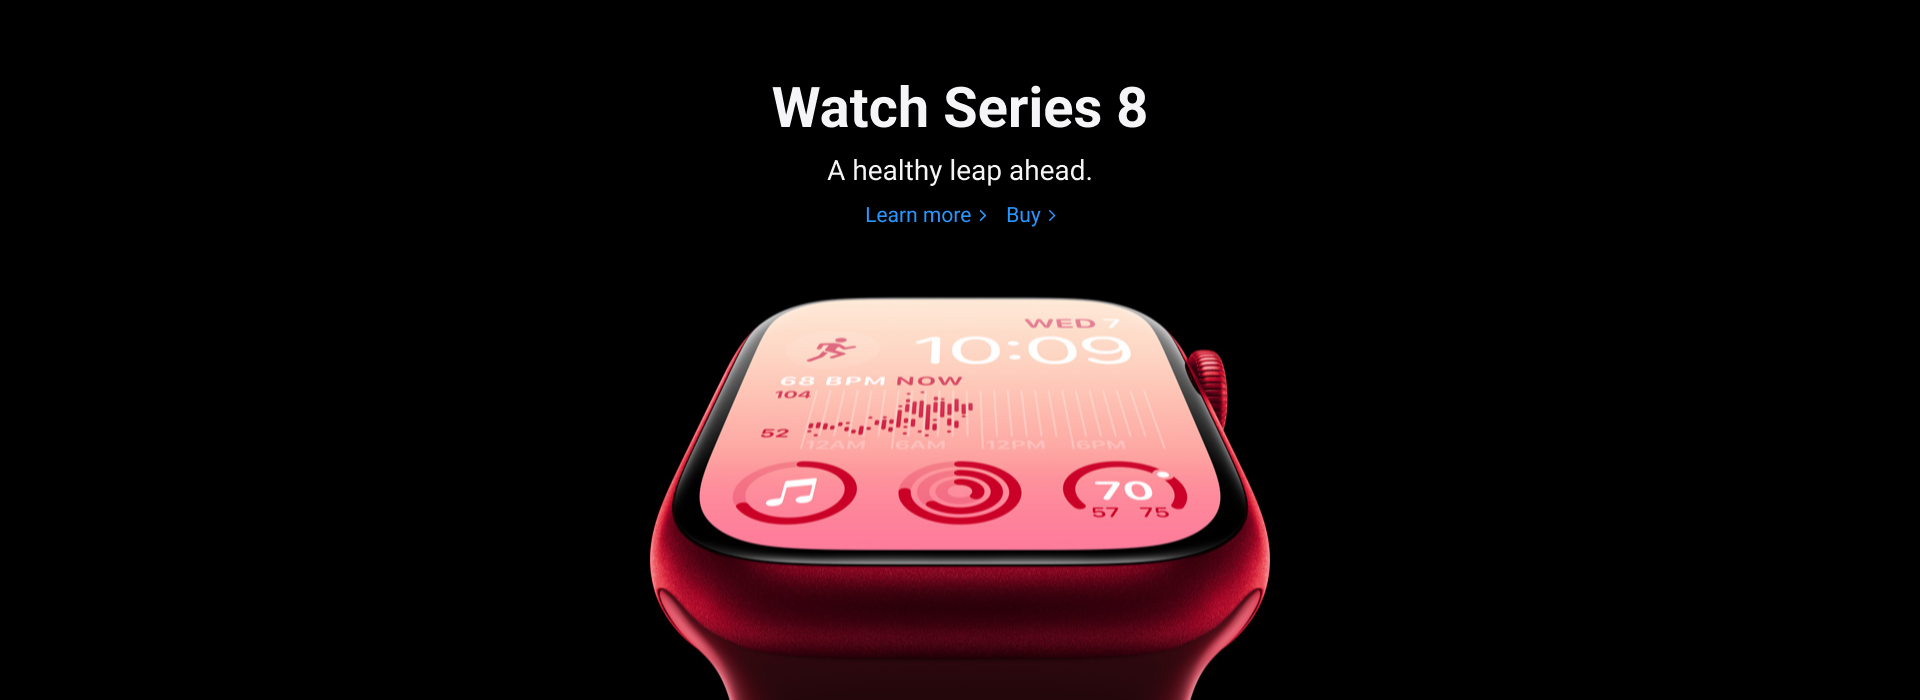
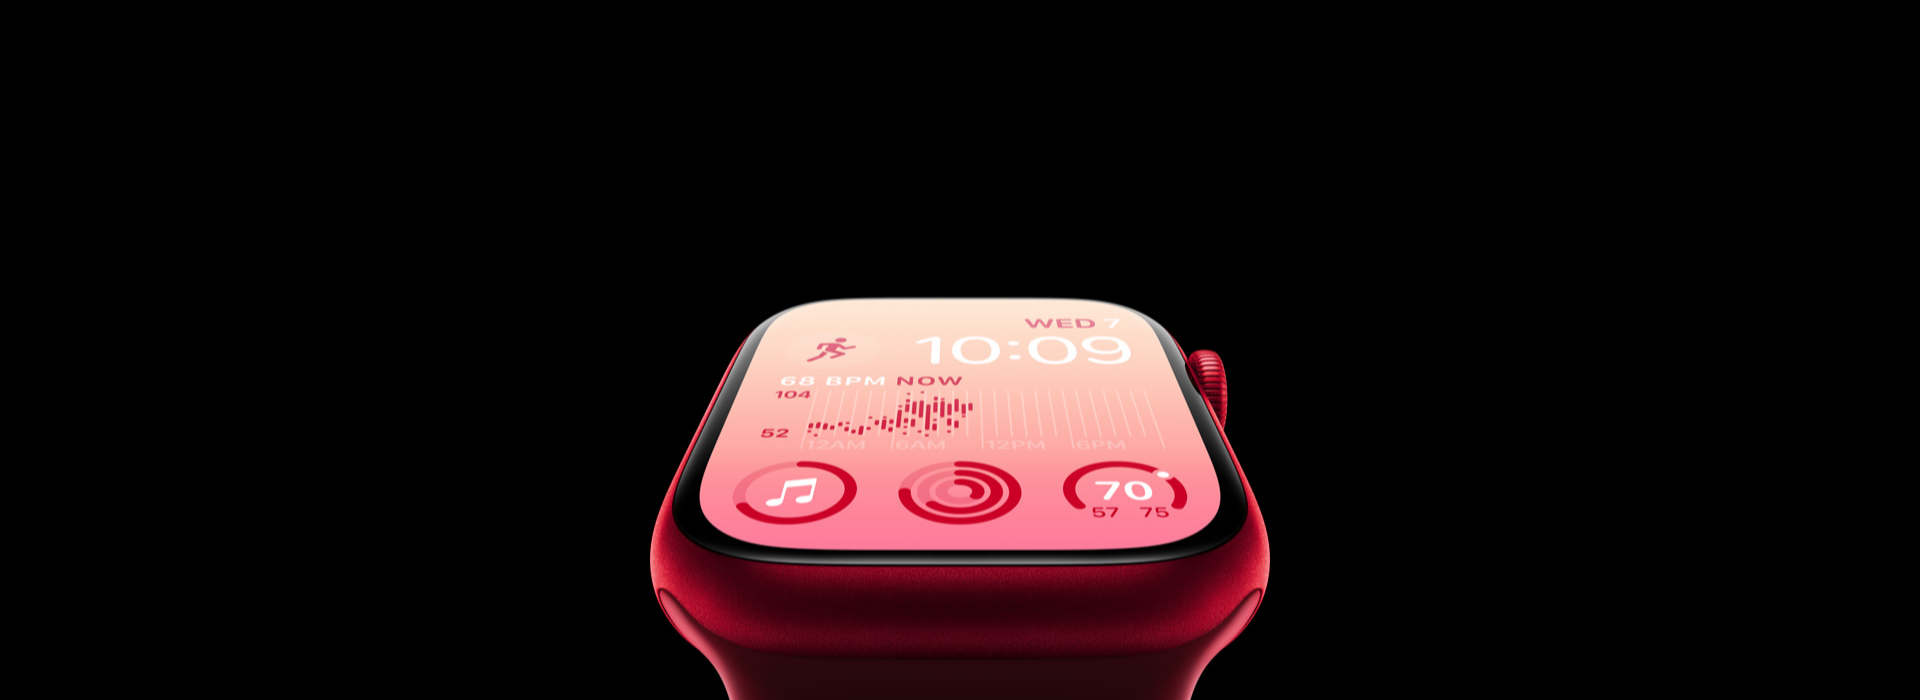
hometask

Changed region(s): [[0.4062, 0.12, 0.5938, 0.18], [0.4375, 0.21, 0.5625, 0.27], [0.4375, 0.3, 0.5625, 0.33]]

diff --git a/public/dist/css/container/apple/style.css b/public/dist/css/container/apple/style.css
@@ -1,30 +1,30 @@
-.section, .header, .product {
+.section, .header, .ad__header, .product, .footer {
   display: flex;
   justify-content: center;
   padding: 0 16px;
 }
 
-.section__content, .header__content {
+.section__content, .header__content, .ad__content {
   max-width: 1200px;
   width: 100%;
 }
 @media all and (width < 1440px) {
-  .section__content, .header__content {
+  .section__content, .header__content, .ad__content {
     max-width: 1100px;
   }
 }
 @media all and (width < 1260px) {
-  .section__content, .header__content {
+  .section__content, .header__content, .ad__content {
     max-width: 900px;
   }
 }
 @media all and (width < 1000px) {
-  .section__content, .header__content {
+  .section__content, .header__content, .ad__content {
     max-width: 700px;
   }
 }
 @media all and (width < 620px) {
-  .section__content, .header__content {
+  .section__content, .header__content, .ad__content {
     max-width: 500px;
   }
 }
@@ -43,13 +43,27 @@
   background-color: #454545;
 }
 
+.ad__header {
+  background-color: white;
+  max-height: 48px;
+  height: 100%;
+}
+
 .header__content {
   display: flex;
   padding: 16px 0;
   justify-content: space-between;
 }
 
-.header__block {
+.ad__content {
+  display: flex;
+  padding: 12px 0;
+  justify-content: space-between;
+  font-size: 14px;
+  color: #1D1D1F;
+}
+
+.header__block, .ad__content {
   display: flex;
   gap: 32px;
   align-items: center;
@@ -66,19 +80,19 @@
   opacity: 0.3;
 }
 
-.header__link {
+.header__link, .footer__link {
   color: #DADADA;
   transition: opacity 0.7s;
   cursor: pointer;
 }
-.header__link:hover {
+.header__link:hover, .footer__link:hover {
   opacity: 0.7;
 }
-.header__link:active {
+.header__link:active, .footer__link:active {
   opacity: 0.3;
 }
 
-.header__link {
+.header__link, .footer__link {
   font-size: 12px;
 }
 
@@ -90,8 +104,10 @@
 }
 
 .product__title {
+  display: flex;
   font-size: 56px;
   font-weight: 600;
+  justify-content: center;
 }
 
 .product__description {
@@ -130,8 +146,8 @@
 }
 
 .product {
-  padding-top: 80px;
-  padding-bottom: 80px;
+  padding-top: 48px;
+  padding-bottom: 48px;
   background-repeat: no-repeat;
   background-position: bottom center;
 }
@@ -156,7 +172,7 @@
 @media all and (width < 1000px) {
   .product--small {
     background-size: 150%;
-    max-height: 800px;
+    max-height: 500px;
   }
 }
 
@@ -168,6 +184,11 @@
 .product--iphone {
   background-image: url(/img/iphone.png);
   background-color: #FAFAFA;
+}
+
+.product--iwatch {
+  background-image: url(/img/iwatch.png);
+  background-color: black;
 }
 
 .product--trade-in {
@@ -182,12 +203,12 @@
 
 .product--ipad {
   background-image: url(/img/ipad.png);
-  background-color: #FBFBFD;
+  background-color: #FBFBFB;
 }
 
 .product--small_business {
   background-image: url(/img/small_business.png);
-  background-color: #FBFBFD;
+  background-color: black;
 }
 
 .product--gift {
@@ -227,6 +248,51 @@
 }
 .product--small .product__description {
   font-size: 20px;
+}
+
+.footer {
+  padding: 40px 0px;
+  background-color: #F5F5F7;
+}
+
+.footer__content {
+  display: grid;
+  grid-template-columns: repeat(6, 1fr);
+  gap: 20px;
+  width: calc(100% - 80px);
+}
+
+.footer__column {
+  display: flex;
+  flex-direction: column;
+  gap: 16px;
+}
+
+.column__title {
+  color: #1D1D1F;
+  font-size: 12px;
+  font-weight: 600;
+}
+
+.column__content {
+  display: flex;
+  flex-direction: column;
+  gap: 12px;
+}
+
+.footer__link {
+  color: #424245;
+}
+
+@media all and (width < 600px) {
+  .footer__content {
+    grid-template-columns: repeat(3, 1fr);
+  }
+}
+@media all and (width < 400px) {
+  .footer__content {
+    grid-template-columns: repeat(2, 1fr);
+  }
 }
 
 /*# sourceMappingURL=style.css.map */

diff --git a/src/container/apple/style.scss b/src/container/apple/style.scss
@@ -5,11 +5,28 @@
   background-color: s.getColor('backgroundDark');
 }
 
+.ad__header{
+  @extend .section;
+  background-color: white;
+  max-height: s.space(12);
+  height: 100%
+}
+
 .header__content{
   @extend .section__content;
   display: flex;
   padding: s.space(4) 0;
   justify-content: space-between;
+}
+
+.ad__content{
+  @extend .section__content;
+  @extend .header__block;
+  display: flex;
+  padding: s.space(3) 0;
+  justify-content: space-between;
+  font-size: s.getSize('middle');
+  color: s.getColor('fontDark');
 }
 
 .header__block{
@@ -40,8 +57,10 @@
 }
 
 .product__title{
+  display: flex;
   font-size: 56px;
   font-weight: 600;
+  justify-content: center;
 }
 
 .product__description{
@@ -64,8 +83,8 @@
 .product{
   @extend .section;
 
-  padding-top: s.space(20);
-  padding-bottom: s.space(20);
+  padding-top: s.space(12);
+  padding-bottom: s.space(12);
 
   background-repeat: no-repeat;
   background-position: bottom center;
@@ -91,17 +110,18 @@
 
   @media all and (width < s.getScreen('tablet')) {
     background-size: 150%;
-    max-height: 800px;
+    max-height: 500px;
   }
 }
 
 $productImage: (
   'iphone-pro' '/img/iphone-pro.png' black,
   'iphone' '/img/iphone.png' #FAFAFA,
+  'iwatch' '/img/iwatch.png' black,
   'trade-in' '/img/trade_in.png' #FBFBFD,
   'conference' '/img/conference.png' black,  
-  'ipad' '/img/ipad.png' #FBFBFD,
-  'small_business' '/img/small_business.png' #FBFBFD,
+  'ipad' '/img/ipad.png' #FBFBFB,
+  'small_business' '/img/small_business.png' black,
   'gift' '/img/gift.png' #FBFBFD,
   'card' '/img/card.png' #FBFBFD,
 );
@@ -148,5 +168,53 @@ $productImage: (
   
   .product__description{
     font-size: 20px;
+  }
+}
+
+.footer{
+  @extend .section;
+  padding: s.space(10) 0px;
+  background-color: s.getColor('background');
+}
+
+.footer__content{
+  display: grid;
+  grid-template-columns: repeat(6, 1fr);
+  gap: s.space(5);
+  width: calc(100% - 80px);
+}
+
+.footer__column{
+  display: flex;
+  flex-direction: column;
+  gap: s.space(4);  
+}
+
+.column__title{
+  color: s.getColor('fontDark');
+  font-size: s.getSize('small');
+  font-weight: 600;
+}
+
+.column__content{
+  display: flex;
+  flex-direction: column;
+  gap: s.space(3);
+}
+
+.footer__link{
+  @extend .header__link;
+  color: #424245;
+}
+
+@media all and (width < 600px) {
+  .footer__content{
+    grid-template-columns: repeat(3, 1fr);
+  }
+}
+
+@media all and (width < 400px) {
+  .footer__content{
+    grid-template-columns: repeat(2, 1fr);
   }
 }

diff --git a/public/dist/css/layout/default/style.css b/public/dist/css/layout/default/style.css
@@ -8,21 +8,25 @@
   max-width: 1200px;
   width: 100%;
 }
+
 @media all and (width < 1440px) {
   .section__content {
     max-width: 1100px;
   }
 }
+
 @media all and (width < 1260px) {
   .section__content {
     max-width: 900px;
   }
 }
+
 @media all and (width < 1000px) {
   .section__content {
     max-width: 700px;
   }
 }
+
 @media all and (width < 620px) {
   .section__content {
     max-width: 500px;
@@ -33,6 +37,7 @@
   display: grid;
   grid-template-columns: 1fr 1fr;
 }
+
 @media all and (width < 1260px) {
   .section__double {
     grid-template-columns: 1fr;
@@ -44,5 +49,3 @@
   font-size: 16px;
   background-color: #F5F5F7;
 }
-
-/*# sourceMappingURL=style.css.map */

diff --git a/src/lib/var.scss b/src/lib/var.scss
@@ -13,6 +13,7 @@ $colorMap: (
 $sizeMap: (
   default : 16px,
   small : 12px,
+  middle : 14px,
 );
 
 @function getSize($key : 'default'){
